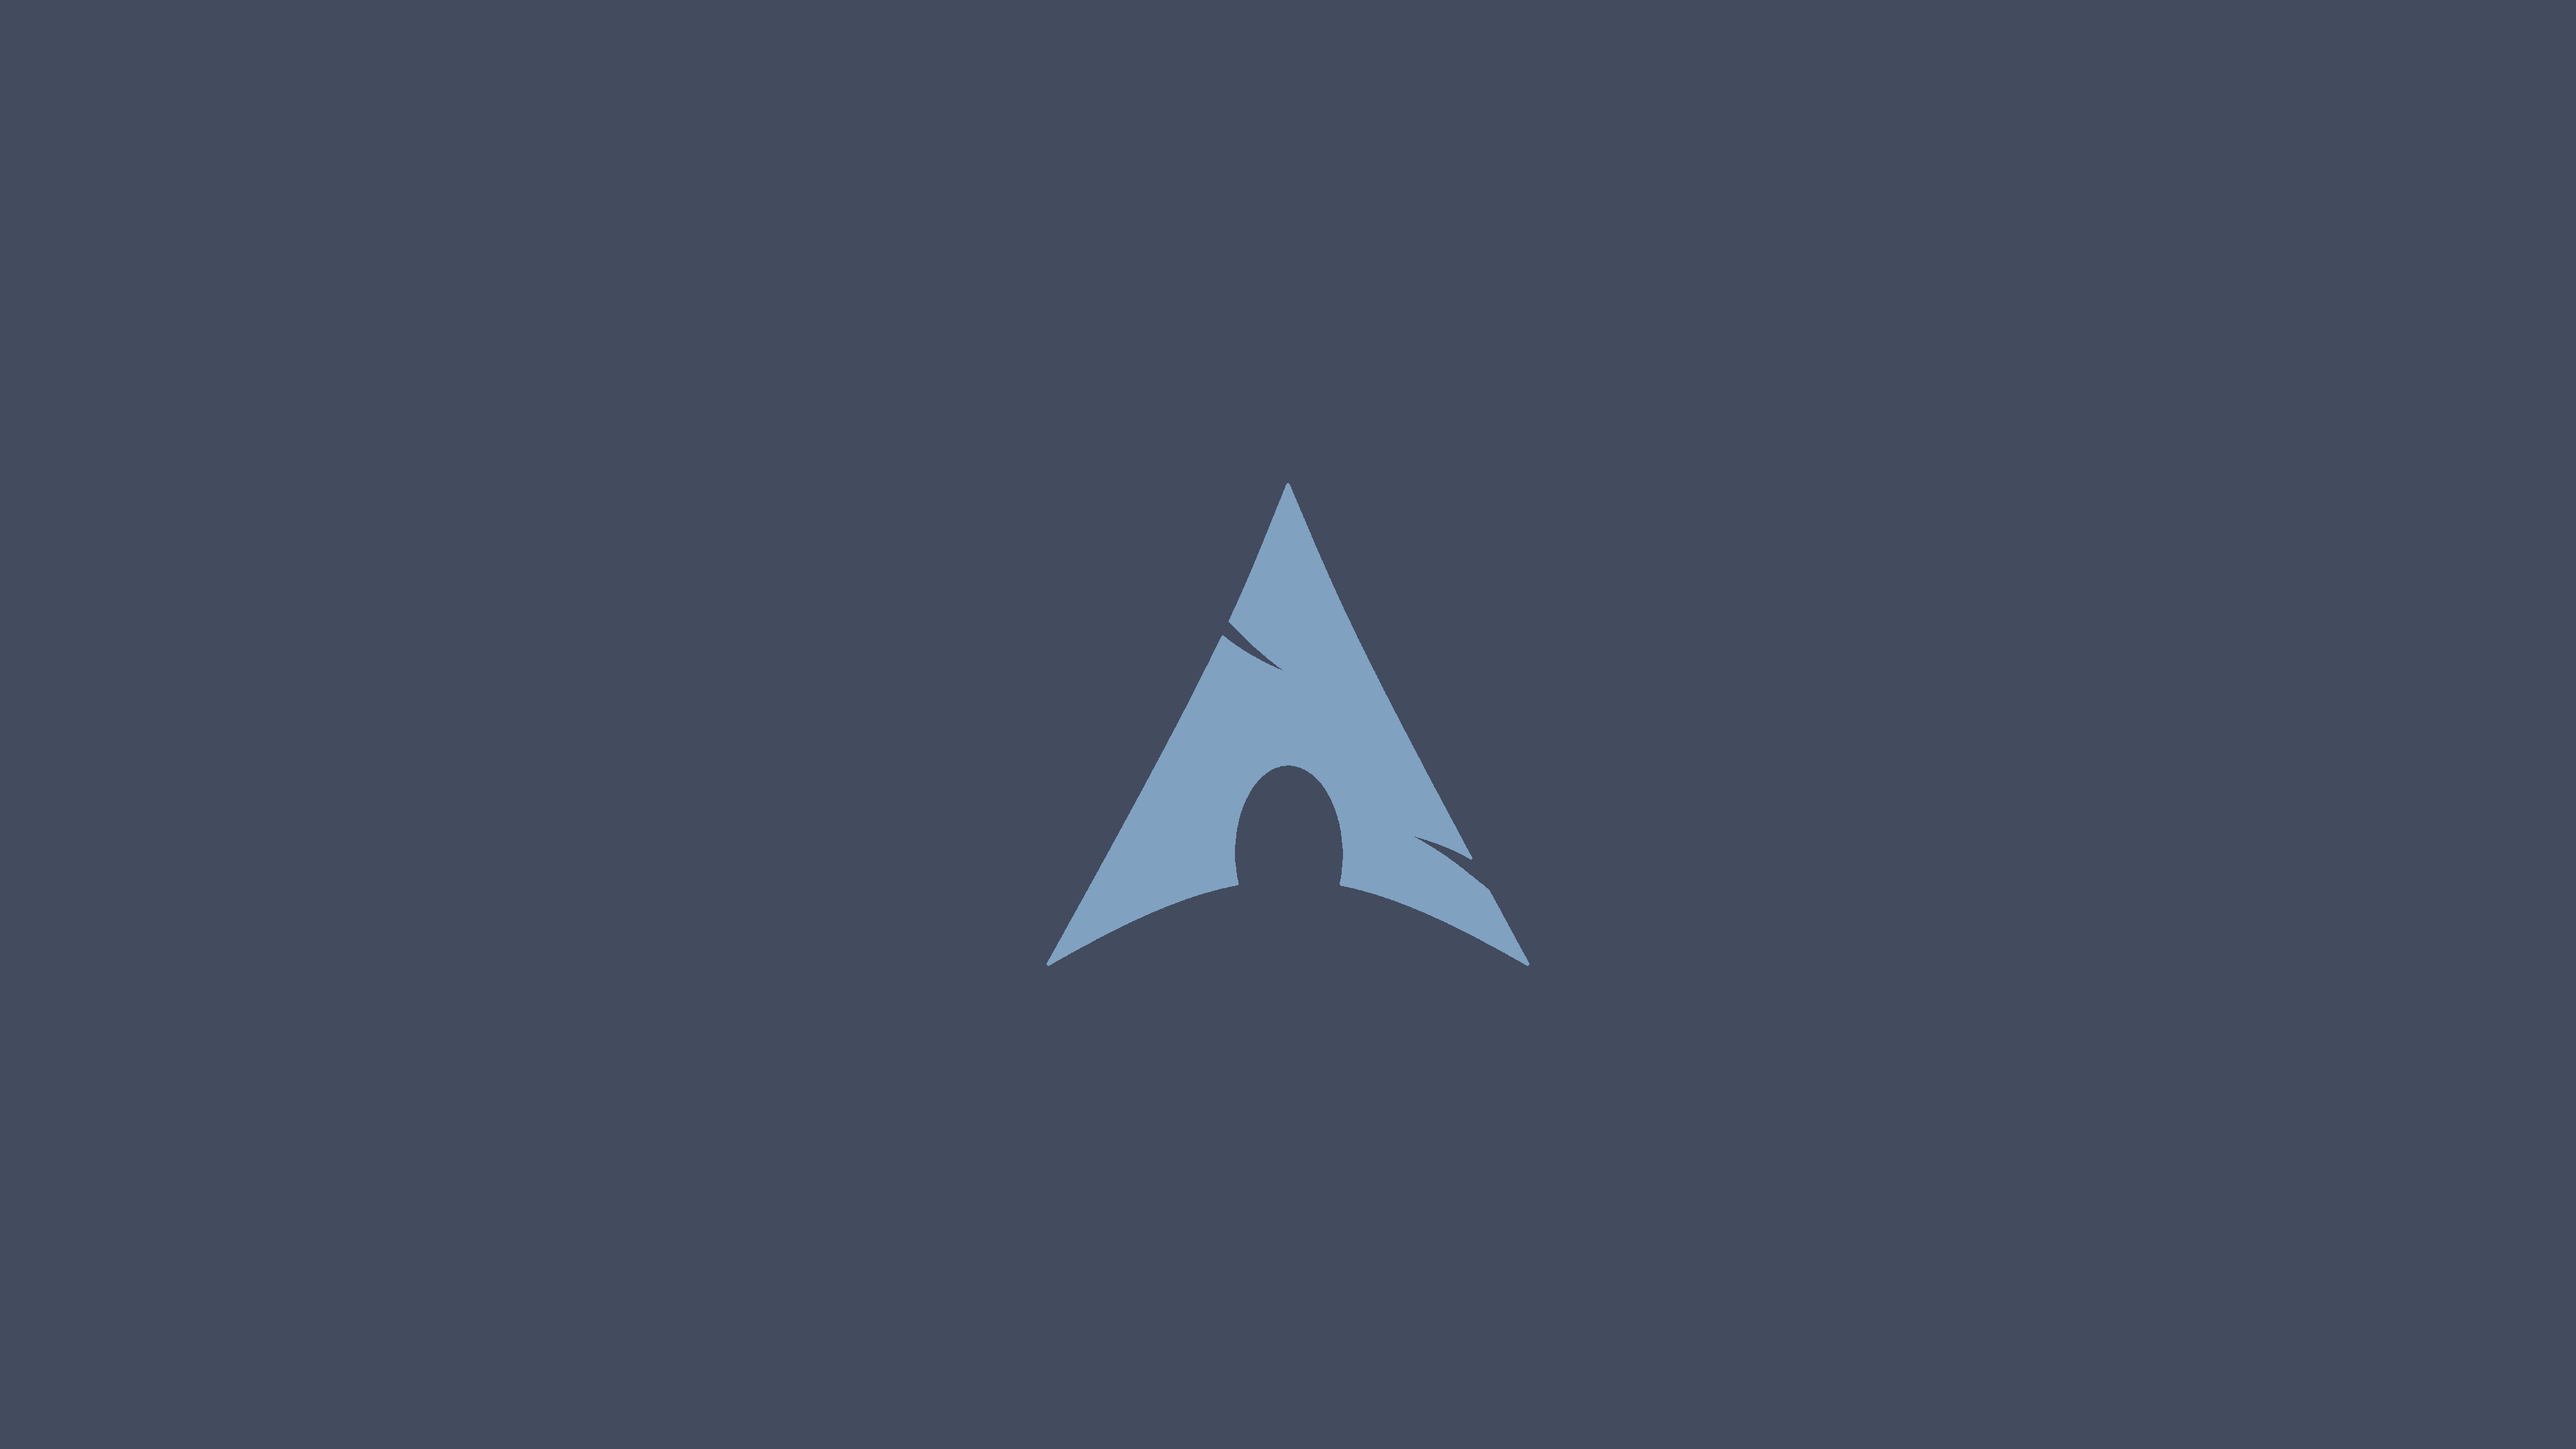
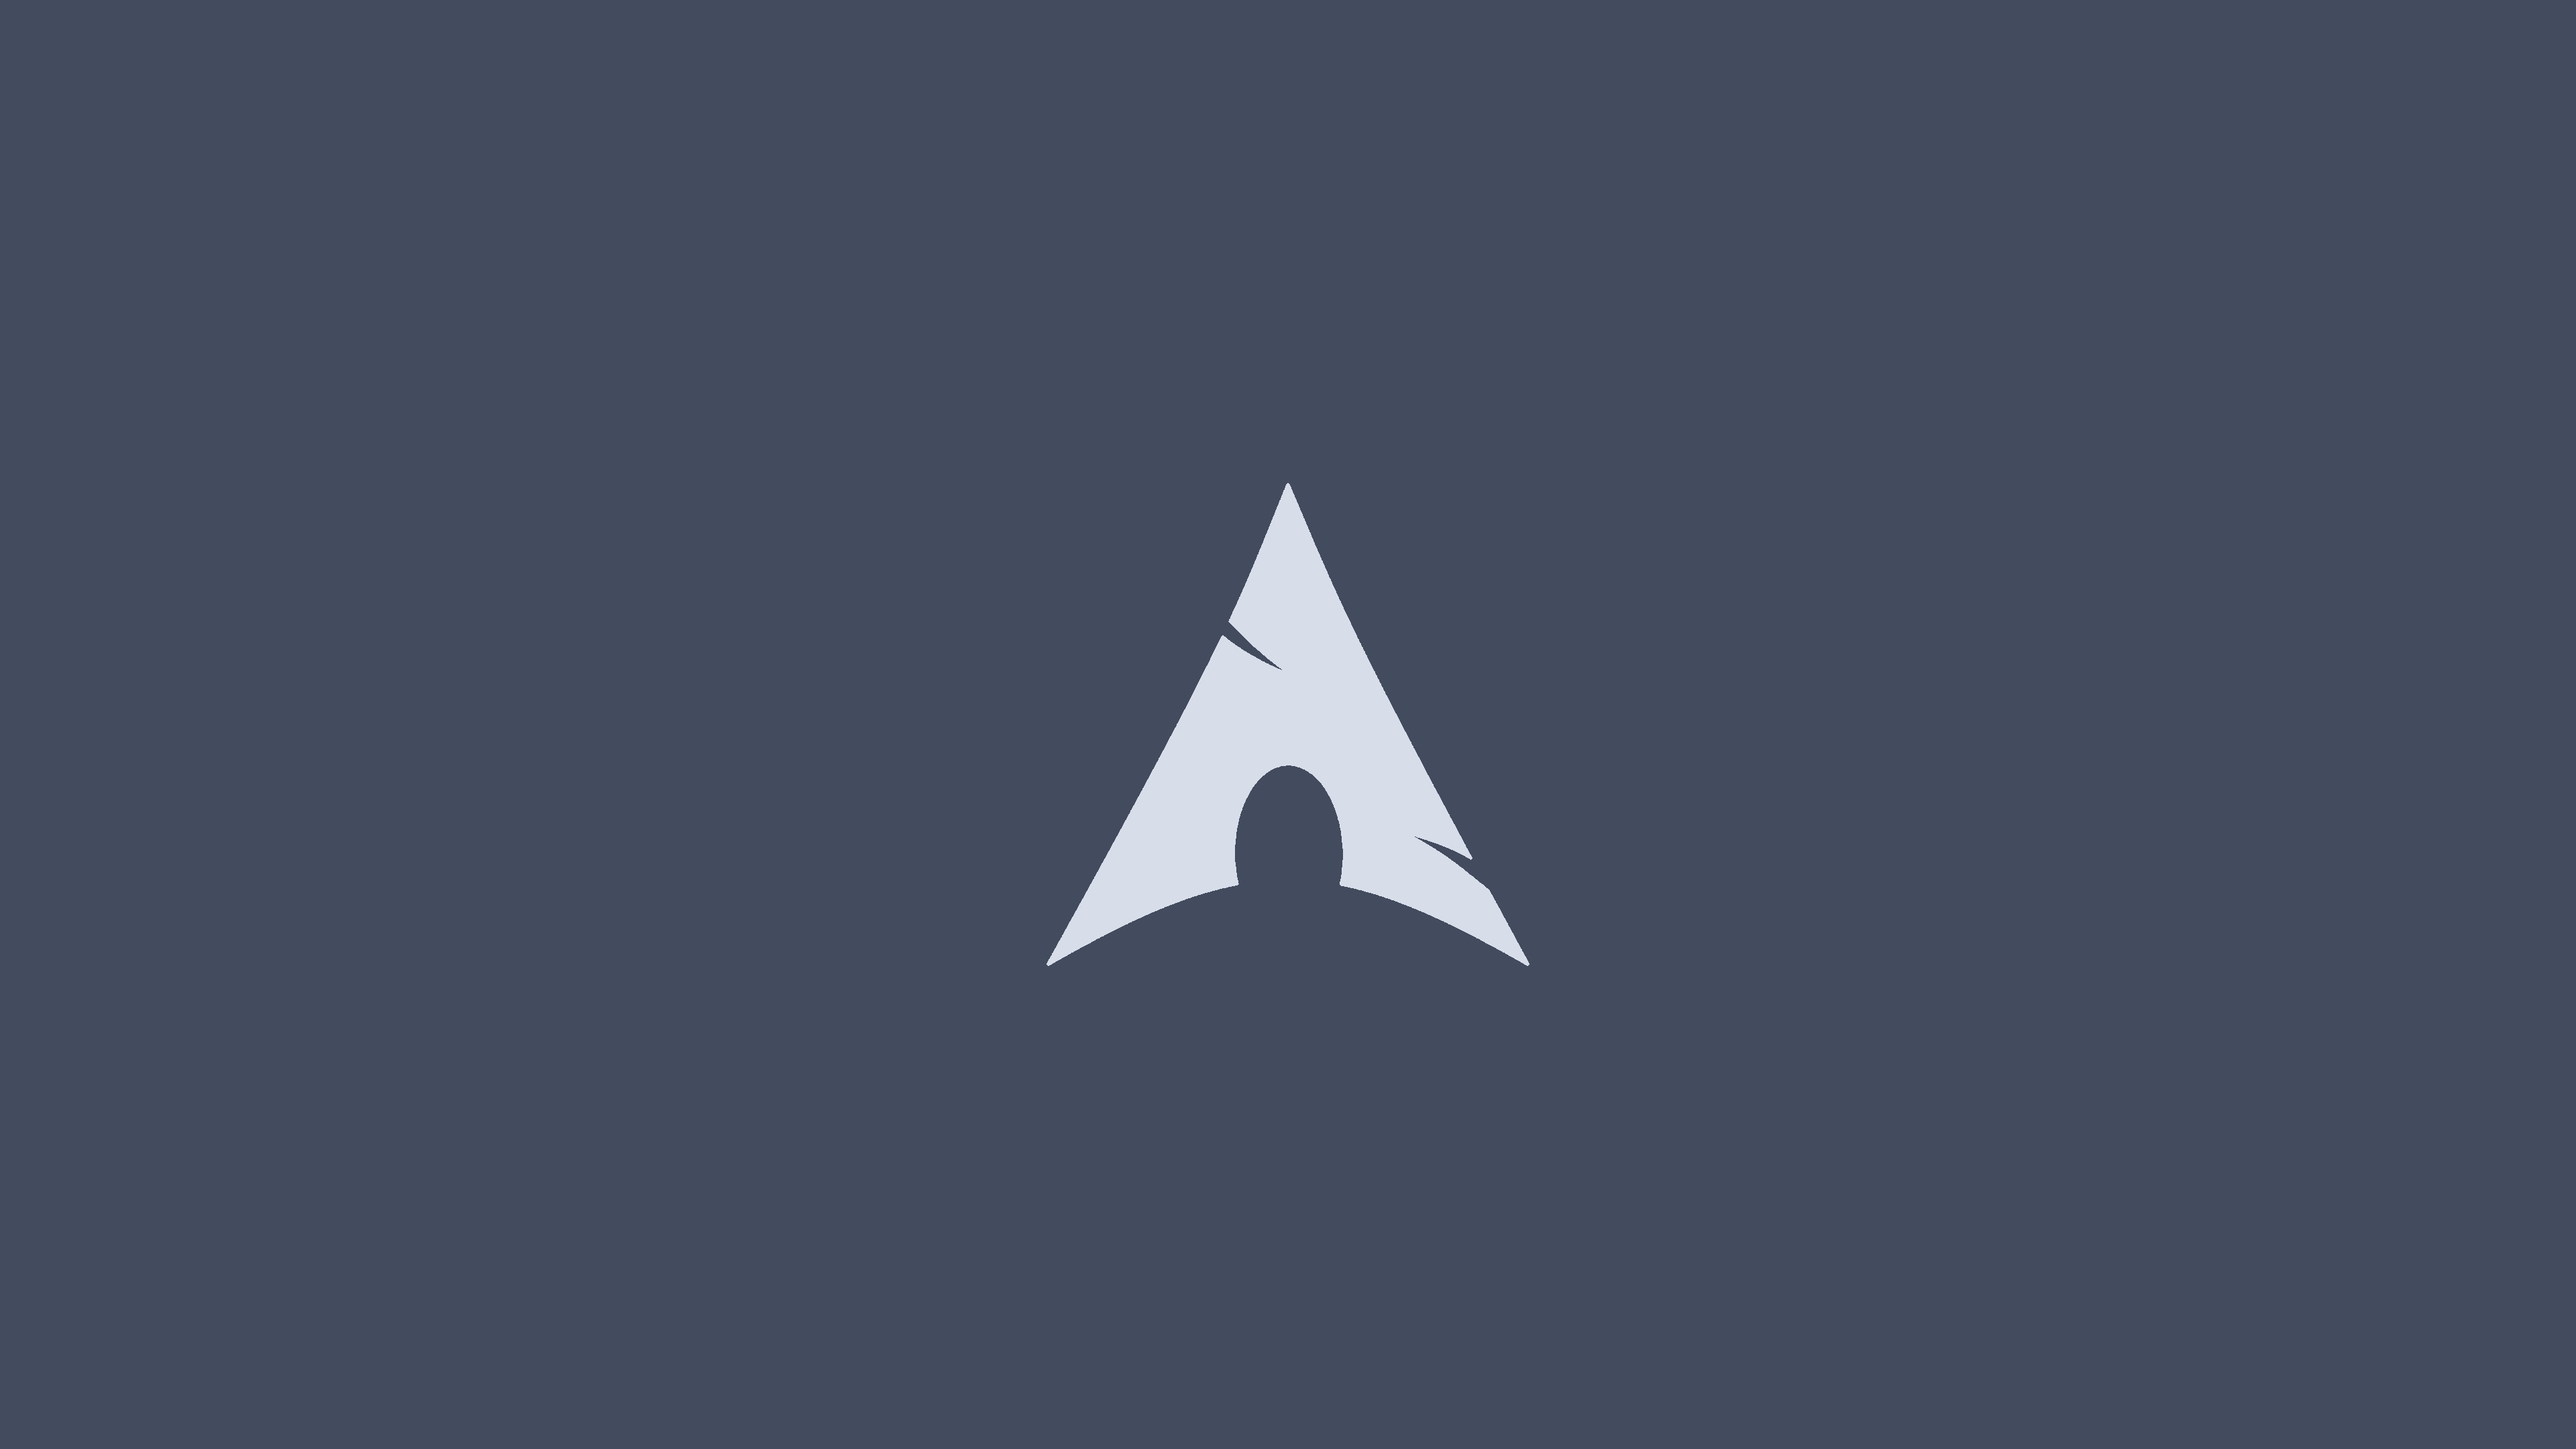
Changed the wallpaper

Changed region(s): [[0.4062, 0.3412, 0.5938, 0.6824]]

diff --git a/.config/qtile/config.py b/.config/qtile/config.py
@@ -290,7 +290,7 @@ widget_defaults = {
 
 screens = [
     Screen(
-        wallpaper='/usr/share/backgrounds/iceberg.jpg',
+        wallpaper='/usr/share/backgrounds/arch.jpg',
         wallpaper_mode='fill',
         bottom=bar.Bar(
             [
